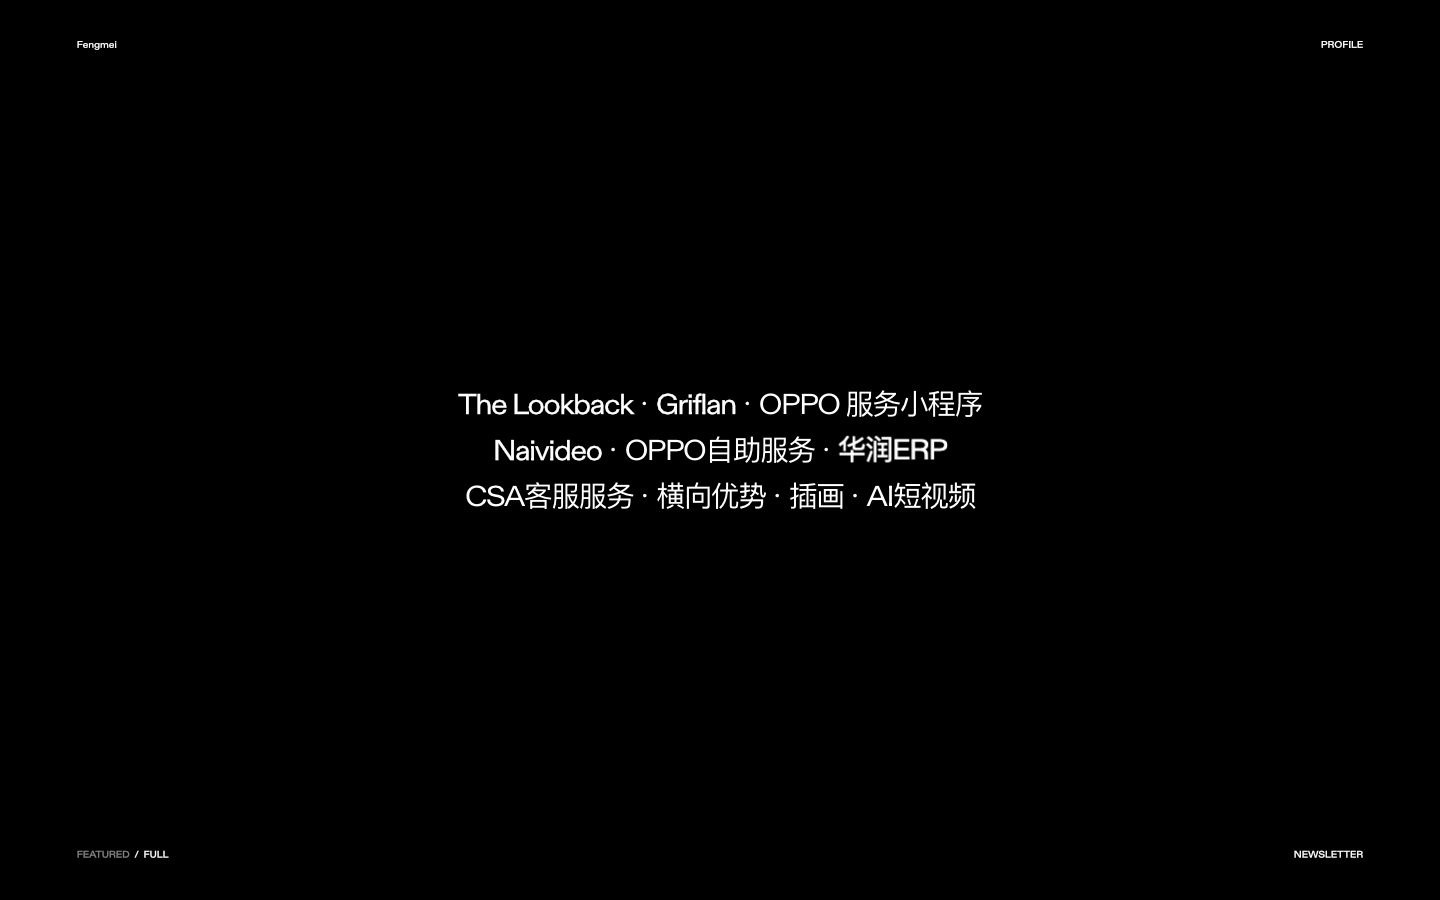
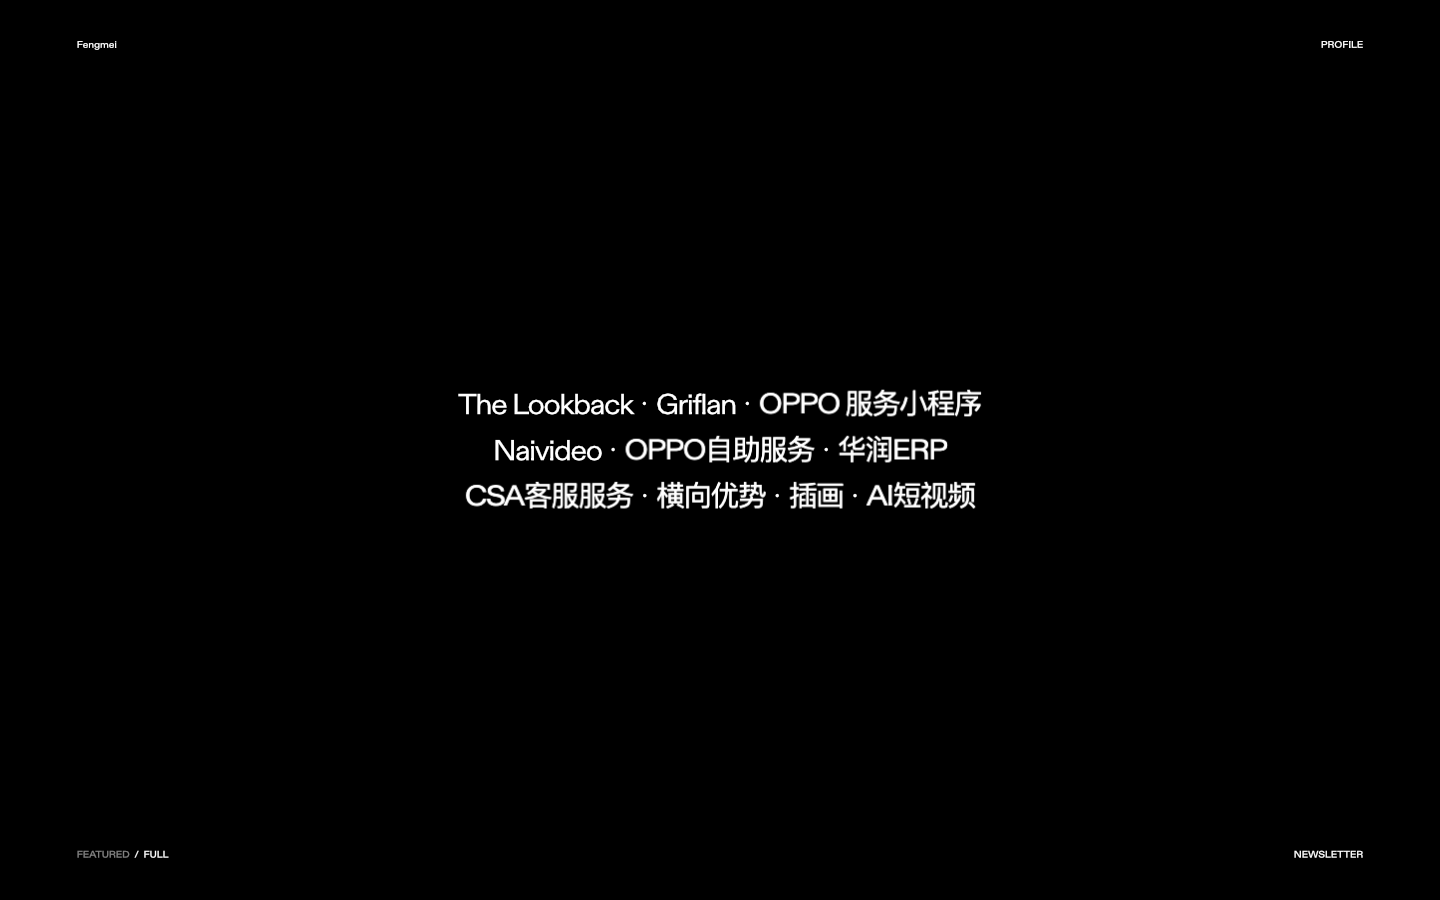
Restore native hover interactions for all catalogue labels

Changed region(s): [[0.3125, 0.4356, 0.6875, 0.5911]]

diff --git a/tools/verify_catalogue_hover.js b/tools/verify_catalogue_hover.js
@@ -1,0 +1,56 @@
+const { chromium } = require('playwright-core');
+const fs = require('fs');
+const origin = process.env.PREVIEW_ORIGIN || 'http://127.0.0.1:5189';
+(async () => {
+  const browser = await chromium.launch({ executablePath: '/Applications/Google Chrome.app/Contents/MacOS/Google Chrome',
+    headless: true, args: ['--no-sandbox', '--use-gl=angle', '--use-angle=swiftshader', '--enable-webgl'] });
+  const errors = [], results = [];
+  try {
+    const page = await browser.newPage({ viewport: { width: 1440, height: 900 } });
+    page.on('pageerror', e => errors.push(e.message));
+    page.on('console', m => { if (m.type() === 'error' || /hydration.*mismatch/i.test(m.text())) errors.push(m.text()); });
+    await page.goto(origin + '/full');
+    await page.waitForFunction(() => !document.querySelector('[data-gl="bar"]'), null, { timeout: 60000 });
+    await page.waitForTimeout(1500);
+    const links = page.locator('main .content-center a');
+    for (let i = 0; i < await links.count(); i++) {
+      const link = links.nth(i);
+      await link.hover();
+      await page.waitForTimeout(700);
+      const result = await page.evaluate(index => {
+        const folio = document.querySelector('#__nuxt').__vue_app__.config.globalProperties.$nuxt.$folio;
+        const el = document.querySelectorAll('main .content-center a')[index];
+        const plane = folio.page.find(p => p.el === el);
+        const rail = folio.rail;
+        return { title: el.textContent, slug: el.getAttribute('href').split('/').pop(),
+          drawn: !!plane && plane.material.uniforms.u_alpha.value > .5,
+          domHidden: +getComputedStyle(el).opacity === 0,
+          field: plane?.material.uniforms.u_avoidP.value || 0,
+          preview: !!rail.mesh?.visible, selected: rail.index,
+          previewSlug: (rail.itemB || rail.itemA)?.slug, x: rail.x, y: rail.y };
+      }, i);
+      result.ok = result.drawn && result.domHidden && result.field > .5 && result.preview &&
+        result.selected === i && result.previewSlug === result.slug;
+      results.push(result);
+      console.log(result.ok ? 'PASS' : 'FAIL', result.title, JSON.stringify(result));
+      if (result.slug === 'oppo-service') await page.screenshot({ path: 'screenshots/catalogue_hover_chinese.png' });
+    }
+    await page.mouse.move(100, 100);
+    await page.waitForTimeout(1100);
+    const resting = await page.evaluate(() => {
+      const folio = document.querySelector('#__nuxt').__vue_app__.config.globalProperties.$nuxt.$folio;
+      const links = [...document.querySelectorAll('main .content-center a')];
+      return { reveal: folio.rail.r, rows: new Set(links.map(a => Math.round(a.parentElement.getBoundingClientRect().top))).size,
+        labels: folio.page.filter(p => p.el.matches('.content-center a')).length };
+    });
+    results.push({ title: 'reset and three-row layout', ok: resting.reveal < .02 && resting.rows === 3 && resting.labels === 10, ...resting });
+    await page.screenshot({ path: 'screenshots/full_three_rows.png' });
+    await links.filter({ hasText: '华润ERP' }).click();
+    await page.waitForURL('**/projects/erp');
+    await page.waitForTimeout(1800);
+    results.push({ title: 'Chinese title opens matching detail', ok: (await page.locator('[data-gl="sheet"][data-id="erp"] h1').textContent()) === '华润ERP' });
+    await page.screenshot({ path: 'screenshots/catalogue_hover_to_detail.png' });
+    fs.writeFileSync('raw/verify_catalogue_hover.json', JSON.stringify({ results, errors }, null, 2));
+  } finally { await browser.close(); }
+  if (errors.length || results.some(r => !r.ok)) process.exitCode = 1;
+})().catch(e => { console.error(e); process.exitCode = 1; });

diff --git a/site/local-copy.css b/site/local-copy.css
@@ -214,24 +214,11 @@ div.fixed.inset-0.z-40 a.label[href="/"] {
   overflow: hidden;
 }
 
-/* The full catalogue uses the Latin glyph atlas too. Paint local Chinese
- * names in the DOM so their characters remain readable. */
-main.fixed[data-gl-shield]:has(.content-center) {
-  z-index: 30;
-}
+/* Catalogue labels are all rendered by the scene, including Chinese text.
+ * Keep the DOM as measuring/hit targets so the native hover lens and preview
+ * can deform, mask and dim every label together. */
 @media (min-width: 650px) {
   main.fixed[data-gl-shield] .content-center {
     max-width: 68rem;
   }
-}
-main.fixed[data-gl-shield] .content-center a[href="/projects/oppo-service"],
-main.fixed[data-gl-shield] .content-center a[href="/projects/oppo-self-service"],
-main.fixed[data-gl-shield] .content-center a[href="/projects/csa-service"],
-main.fixed[data-gl-shield] .content-center a[href="/projects/hengxiang-advantage"],
-main.fixed[data-gl-shield] .content-center a[href="/projects/illustration"],
-main.fixed[data-gl-shield] .content-center a[href="/projects/ai-video"] {
-  -webkit-text-fill-color: #fff !important;
-  color: #fff !important;
-  opacity: 1 !important;
-  visibility: visible !important;
 }

diff --git a/site/local-motion.js b/site/local-motion.js
@@ -3,9 +3,12 @@
 (function () {
   'use strict';
   window.PortfolioMotion = {
-    // This renamed title needs Chinese glyphs in cards, pills and the index;
-    // use the native canvas-text path instead of the Latin-only outline font.
-    useCanvasText: function (el) { return el.textContent.trim() === '华润ERP'; },
+    // Chinese catalogue labels need native canvas glyphs too: this keeps
+    // every label inside the scene's pointer field and preview mask.
+    useCanvasText: function (el) {
+      return el.textContent.trim() === '华润ERP' ||
+        (el.matches('.content-center a') && /[\u3400-\u9fff]/.test(el.textContent));
+    },
     install: function (folio) {
       if (folio.galleryMotion) return;
       var media = matchMedia('(prefers-reduced-motion: reduce)');
